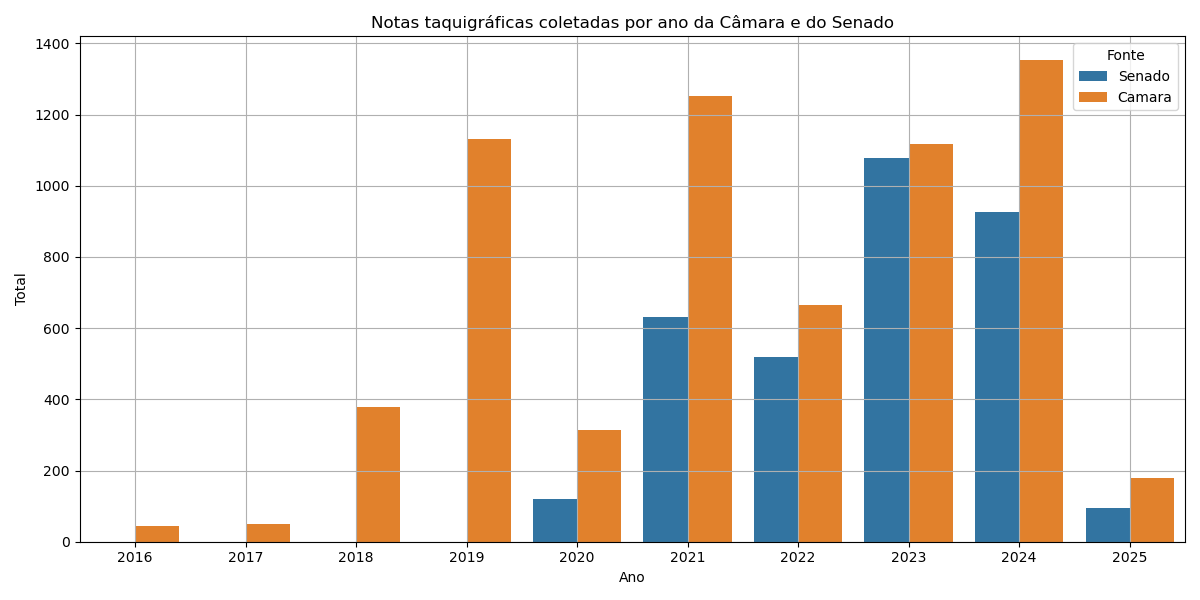
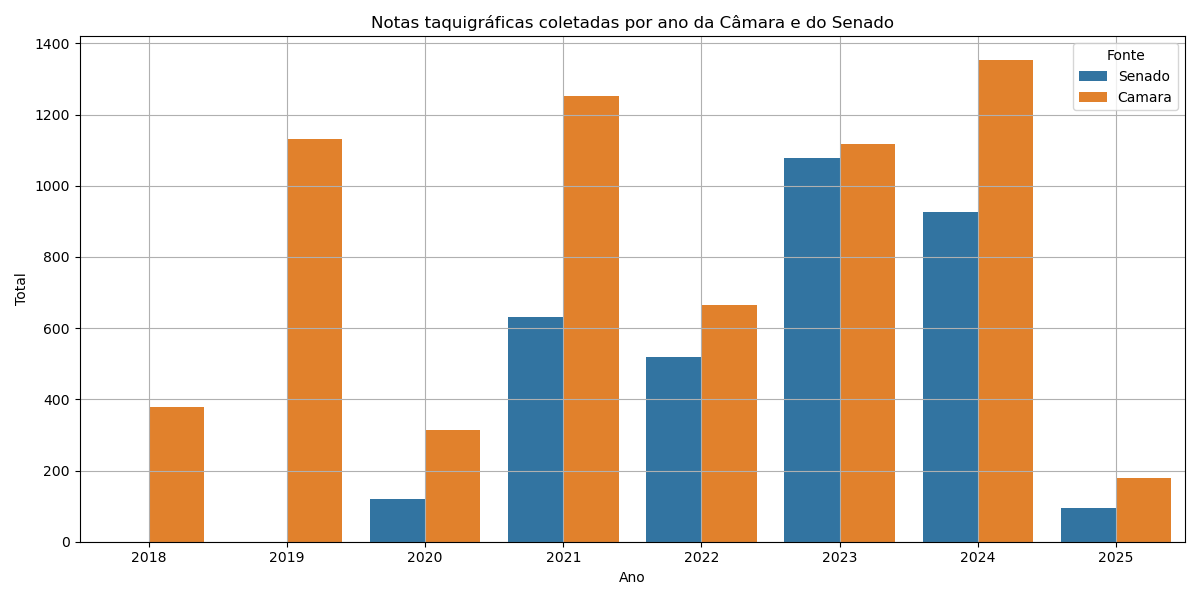
agrupei algumas informacoes e retirei anos com pouco dados

diff --git a/resultados/teste.c b/resultados/teste.c
@@ -1,0 +1,19 @@
+#include <igraph.h>
+#include <stdio.h>
+
+int main() {
+    igraph_t graph;
+    igraph_vector_int_t edges;
+    
+    // Create a full graph with 5 vertices
+    igraph_full(&graph, 5, IGRAPH_UNDIRECTED, IGRAPH_NO_LOOPS);
+    
+    // Print some basic info
+    printf("Vertices: %ld\n", (long)igraph_vcount(&graph));
+    printf("Edges: %ld\n", (long)igraph_ecount(&graph));
+    
+    // Clean up
+    igraph_destroy(&graph);
+    
+    return 0;
+}
